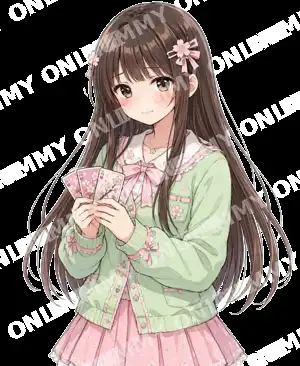
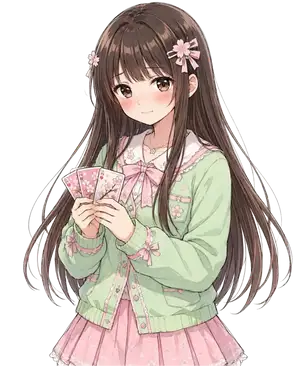
Remove preview watermark

diff --git a/client/public/pack-loader.js b/client/public/pack-loader.js
@@ -1,6 +1,6 @@
 /* pack-loader.js (ก้อนที่ 2) — หน้าโหลดก่อนเข้าเกม + โหลด/ถอดรหัสแพ็กแอสเซ็ตตามสิทธิ์ผู้เล่น
    Flow: อ่าน pack/manifest.json → แพ็กฟรี (base) ขอกุญแจจากเซิร์ฟเวอร์ → แพ็กตัวละครที่ซื้อแล้ว ขอกุญแจพร้อม token ล็อกอิน
-         (ไม่มีสิทธิ์ = เซิร์ฟเวอร์ตอบ 403 → ข้าม ใช้ภาพตัวอย่างลายน้ำแทน) → ดาวน์โหลด/ใช้แคชในเครื่อง → ถอดรหัสในหน่วยความจำ
+         (ไม่มีสิทธิ์ = เซิร์ฟเวอร์ตอบ 403 → ข้าม ใช้ภาพตัวอย่างขนาดเล็กแทน) → ดาวน์โหลด/ใช้แคชในเครื่อง → ถอดรหัสในหน่วยความจำ
          → แทนที่รูปในทะเบียนสกิน (SKIN_REGISTRY) → ปิดหน้าโหลด
    ไม่มี manifest (โหมดพัฒนา/ยังไม่แพ็ก) = ข้ามเงียบ ๆ เกมใช้ไฟล์ตรงตามเดิม
    Public: PackLoader.url(path) · PackLoader.ready (Promise) · PackLoader.refresh() — เรียกหลังซื้อ/สุ่มได้ตัวละครใหม่ เพื่อปลดล็อกภาพเต็ม */
@@ -77,7 +77,7 @@
     for (const name of names) { const f = index.files[name], plain = await dec(b64(f.iv), buf.slice(base + f.o, base + f.o + f.l), name); urls.set(name, URL.createObjectURL(new Blob([plain], { type: f.t }))); }
     return names;
   }
-  // ---------- ทะเบียนสกิน: ภาพเต็ม (ถ้าปลดล็อก) → ภาพตัวอย่างลายน้ำ → รูปล็อก ----------
+  // ---------- ทะเบียนสกิน: ภาพเต็ม (ถ้าปลดล็อก) → ภาพตัวอย่างขนาดเล็ก → รูปล็อก ----------
   const swapDeep = v => { if (typeof v === 'string') return L.url(v) || v; if (Array.isArray(v)) return v.map(swapDeep); if (v && typeof v === 'object') for (const k of Object.keys(v)) v[k] = swapDeep(v[k]); return v; };
   function patchRegistry() {
     try {

diff --git a/scripts/make-previews.js b/scripts/make-previews.js
@@ -1,5 +1,5 @@
 #!/usr/bin/env node
-/* make-previews.js — สร้างภาพตัวอย่างเล็ก + ลายน้ำ (Preview.webp) ของตัวละครที่ต้องซื้อ ให้คนที่ยังไม่มีตัวละครเห็นในร้านค้า/กาชา
+/* make-previews.js — สร้างภาพตัวอย่างขนาดเล็ก (Preview.webp) ของตัวละครที่ต้องซื้อ ให้คนที่ยังไม่มีตัวละครเห็นในร้านค้า/กาชา
    ใช้: node scripts/make-previews.js [--force]     ต้องมีแพ็กเกจ sharp (GitHub Actions ติดตั้งให้เอง: npm i --no-save sharp)
    ข้ามตัวที่มี Preview.webp อยู่แล้ว (ใช้ --force เพื่อสร้างใหม่) */
 const fs = require('fs'), path = require('path');
@@ -13,10 +13,8 @@ const W = 300;
     const out = path.join(SRC, 'Character', id, 'Preview.webp'); if (fs.existsSync(out) && !FORCE) continue;
     const src = ['webp', 'png', 'jpg', 'jpeg'].map(x => path.join(SRC, 'Character', id, 'Character.' + x)).concat(['webp', 'png', 'jpg', 'jpeg'].map(x => path.join(dir, id, 'Character.' + x))).find(fs.existsSync);
     if (!src) { console.warn(`⚠ ${id}: ไม่พบรูปต้นฉบับ`); continue; }
-    const meta = await sharp(src).metadata(), h = Math.round(W * meta.height / meta.width);
-    const mark = `<svg xmlns="http://www.w3.org/2000/svg" width="${W}" height="${h}"><g fill="#fff" fill-opacity=".35" font-family="sans-serif" font-size="22" font-weight="700" transform="rotate(-28 ${W / 2} ${h / 2})">${Array.from({ length: 9 }, (_, r) => Array.from({ length: 3 }, (_, c) => `<text x="${c * 150 - 60}" y="${r * 70 - 40}">DUMMY ONLINE</text>`).join('')).join('')}</g></svg>`;
     fs.mkdirSync(path.dirname(out), { recursive: true });
-    await sharp(src).resize(W).composite([{ input: Buffer.from(mark) }]).webp({ quality: 55 }).toFile(out); made++; console.log('✓ ' + path.relative(ROOT, out));
+    await sharp(src).resize(W).webp({ quality: 60 }).toFile(out); made++; console.log('✓ ' + path.relative(ROOT, out));
   }
   console.log(made ? `สร้างภาพตัวอย่าง ${made} ไฟล์` : 'ไม่มีภาพตัวอย่างที่ต้องสร้าง');
 })().catch(e => { console.error(e); process.exit(1); });

diff --git a/scripts/pack-assets.js b/scripts/pack-assets.js
@@ -1,6 +1,6 @@
 #!/usr/bin/env node
 /* pack-assets.js (ก้อนที่ 2) — แพ็กแอสเซ็ตตัวละครเป็นไฟล์เข้ารหัส แยกตามสิทธิ์
-     pack/base.pak        ตัวละครฟรี (ราคา 0) + ภาพตัวอย่างลายน้ำของตัวละครที่ต้องซื้อ   → ใครก็ขอกุญแจได้
+     pack/base.pak        ตัวละครฟรี (ราคา 0) + ภาพตัวอย่างขนาดเล็กของตัวละครที่ต้องซื้อ   → ใครก็ขอกุญแจได้
      pack/char-<id>.pak   ภาพเต็ม/เอฟเฟกต์/เสียงของตัวละครที่ต้องซื้อ 1 ตัว/1 แพ็ก        → ได้กุญแจเมื่อมีตัวละครนั้นในคลัง
    กุญแจ = HKDF(PACK_MASTER, ชื่อแพ็ก) — ไม่เก็บที่ไหน เซิร์ฟเวอร์ (Render) คำนวณได้เองจาก PACK_MASTER เดียวกัน
    ใช้:   PACK_MASTER=<ข้อความลับ ≥16 ตัวอักษร> node scripts/pack-assets.js [--strip] [--check]

diff --git a/server/src/packkeys.js b/server/src/packkeys.js
@@ -1,7 +1,7 @@
 'use strict';
 /* packkeys.js — ส่งกุญแจถอดรหัสแพ็กแอสเซ็ตให้เกมตามสิทธิ์ผู้เล่น
    กุญแจไม่ถูกเก็บที่ไหนเลย: คำนวณจาก PACK_MASTER (ความลับเดียว ตั้งใน Render + GitHub Secrets) + ชื่อแพ็ก ด้วย HKDF
-   แพ็กชื่อ 'base'      = ฟรี ทุกคนขอได้ (ตัวละครฟรี + ภาพตัวอย่างลายน้ำ)
+   แพ็กชื่อ 'base'      = ฟรี ทุกคนขอได้ (ตัวละครฟรี + ภาพตัวอย่างขนาดเล็ก)
    แพ็กชื่อ 'char-<id>' = ต้องล็อกอินและมีตัวละครนั้นในคลัง (inventory) จึงจะได้กุญแจ
    Public: deriveKey(master, packId) · route({ master, verifyToken, ownsItem }) → handler แบบ express (req, res)
    Extend: เพิ่มชนิดแพ็กใหม่ที่ policy() */
